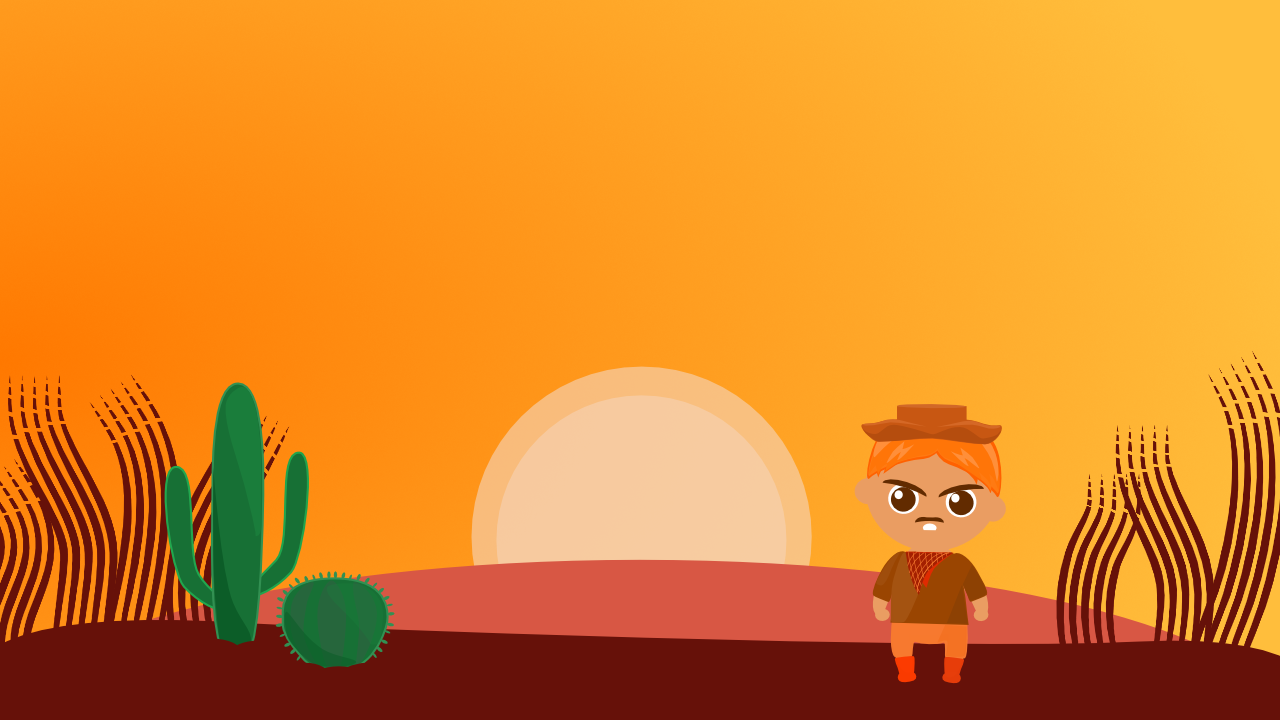
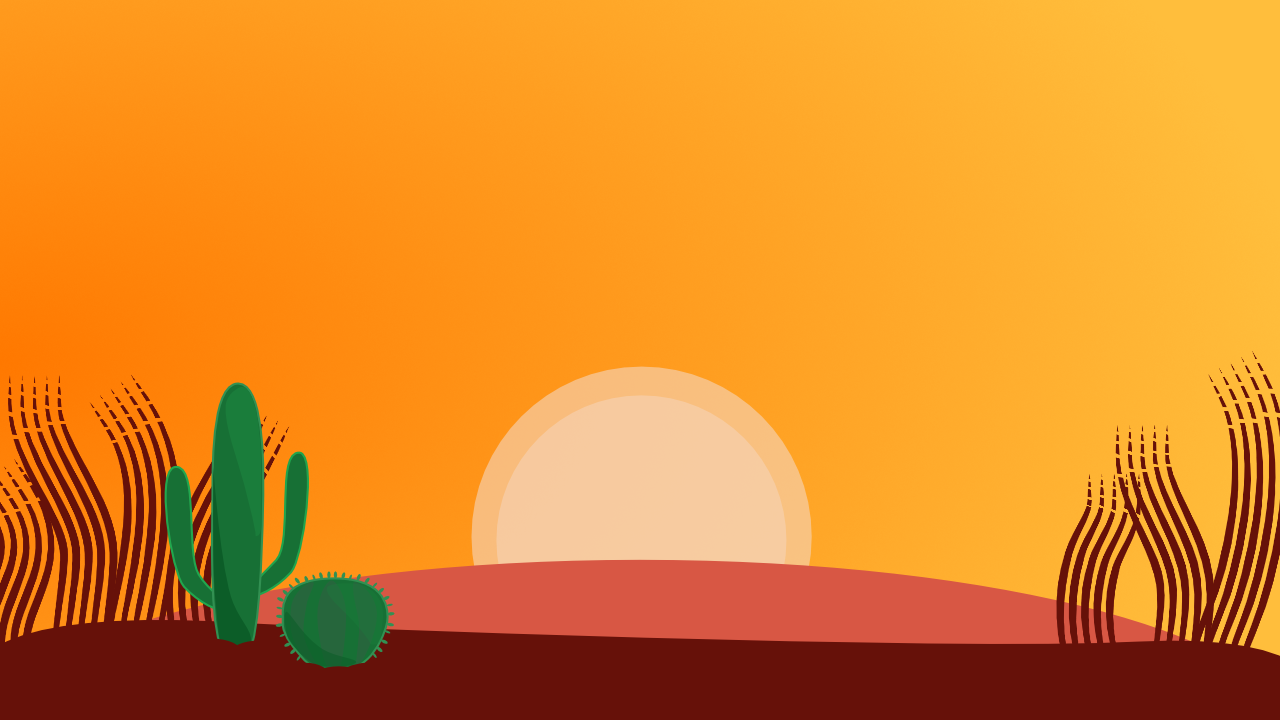
Update MenuScreen

Changed region(s): [[0.6562, 0.55, 0.7812, 0.9472]]

diff --git a/NOBOIShooter/Screens/MenuScreen.cs b/NOBOIShooter/Screens/MenuScreen.cs
@@ -5,7 +5,7 @@ using Microsoft.Xna.Framework.Audio;
 using NOBOIShooter.Controls;
 using System;
 using System.Collections.Generic;
-
+using Microsoft.Xna.Framework.Input;
 
 namespace NOBOIShooter.Screens
 {
@@ -14,7 +14,7 @@ namespace NOBOIShooter.Screens
     {
         //variables decoration
         private List<Component> _components;
-        private Texture2D _buttonTexture, _background, _logo, _volumeOn, _volumeOff, _volumeState, _options;
+        private Texture2D _buttonTexture, _background, _logo, _volumeOn, _volumeOff, _volumeState, _options, _human, _leftEye, _rightEye;
         private SpriteFont _buttonFont;
         private Button _playButton, _leaderboardButton, _quitGameButton, _gameOptionsButton;
         private DynamicButton _volumeControlButton;
@@ -30,6 +30,9 @@ namespace NOBOIShooter.Screens
             _buttonTexture = _content.Load<Texture2D>("Controls/Button");
             _buttonFont = _content.Load<SpriteFont>("Fonts/Font");
             _background = _content.Load<Texture2D>("Backgrouds/background");
+            _human = _content.Load<Texture2D>("Item/human/body");
+            _leftEye = _content.Load<Texture2D>("Item/human/left-eye");
+            _rightEye = _content.Load<Texture2D>("Item/human/right-eye");
             _logo = _content.Load<Texture2D>("Item/logo");
             _volumeOn = _content.Load<Texture2D>("Item/volume-on");
             _volumeOff = _content.Load<Texture2D>("Item/volume-off");
@@ -151,10 +154,22 @@ namespace NOBOIShooter.Screens
 
             spriteBatch.Draw(_background, new Vector2(0, 0), Color.White);
 
-            // resize Noboi logo
+            // Draw Noboi logo
             Rectangle logoFrame = new Rectangle(115, 0, 400, 350);
             spriteBatch.Draw(_logo, logoFrame, Color.White);
 
+            // Draw human
+            Rectangle humanFrame = new Rectangle(494, 349, 171, 316);
+            spriteBatch.Draw(_human, humanFrame, Color.White);
+
+            // Draw eyes of human
+            Rectangle leftEyeFrame = new Rectangle(535, 439, 29, 29);
+            spriteBatch.Draw(_leftEye, leftEyeFrame, Color.White);
+
+            Rectangle rightEyeFrame = new Rectangle(600, 442, 29, 29);
+            spriteBatch.Draw(_rightEye, rightEyeFrame, Color.White);
+
+           
             // draw On-Off Volume Icon
             /* Rectangle resized_volume_icon = new Rectangle(1210, 10, 60, 60);
                spriteBatch.Draw(volume_state, resized_volume_icon, Color.White);
@@ -175,6 +190,13 @@ namespace NOBOIShooter.Screens
                 component.Update(gameTime);
 
             _volumeControlButton.Update(gameTime);
+
+            MouseState mouse = Mouse.GetState();
+
+            if (mouse.LeftButton == ButtonState.Pressed)
+            {
+                System.Diagnostics.Debug.WriteLine(mouse.X.ToString() + " , " + mouse.Y.ToString());
+            }
         }
 
         public override void PostUpdate(GameTime gameTime)

diff --git a/NOBOIShooter/Main.cs b/NOBOIShooter/Main.cs
@@ -1,5 +1,6 @@
 using Microsoft.Xna.Framework;
 using Microsoft.Xna.Framework.Graphics;
+using Microsoft.Xna.Framework.Input;
 using NOBOIShooter.Screens;
 
 namespace NOBOIShooter
@@ -43,6 +44,7 @@ namespace NOBOIShooter
         // Update program logic everytime
         protected override void Update(GameTime gameTime)
         {
+           
             // Update screen
             _screenManager.Update(gameTime);
 
